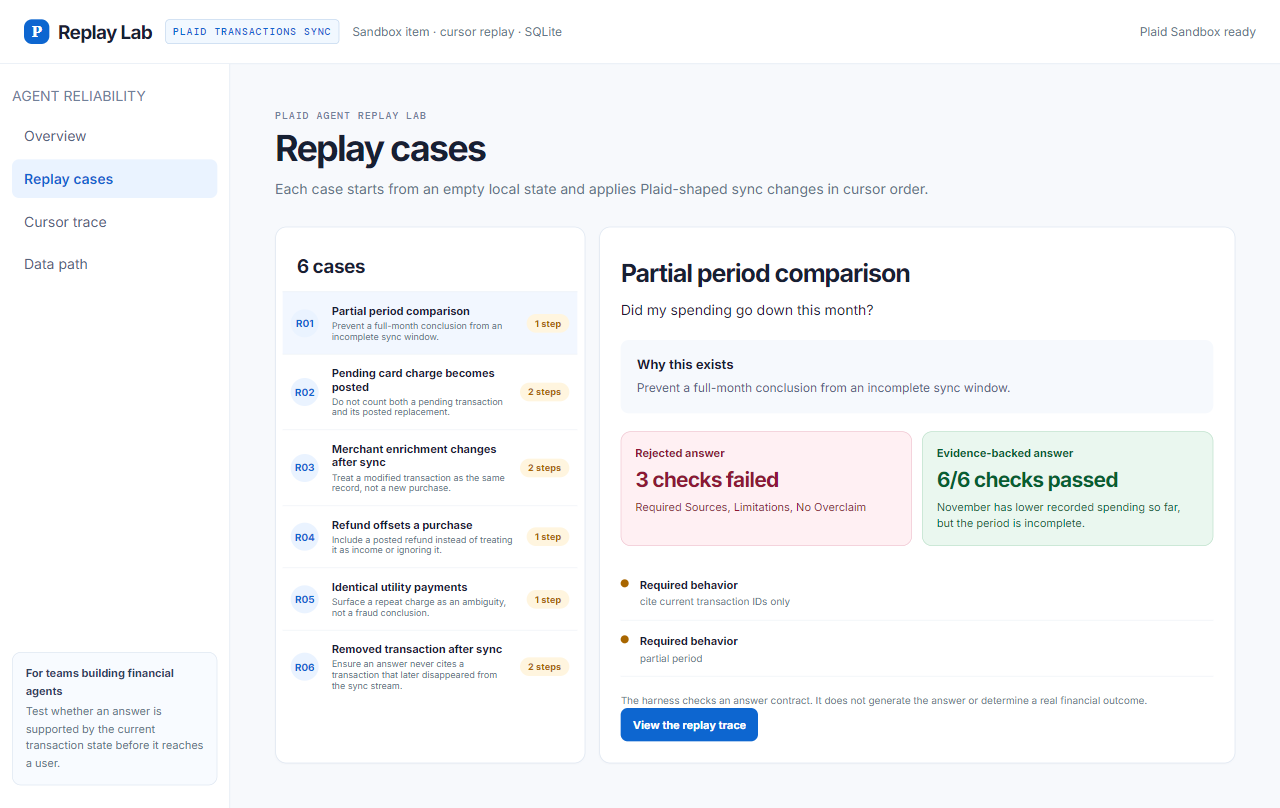
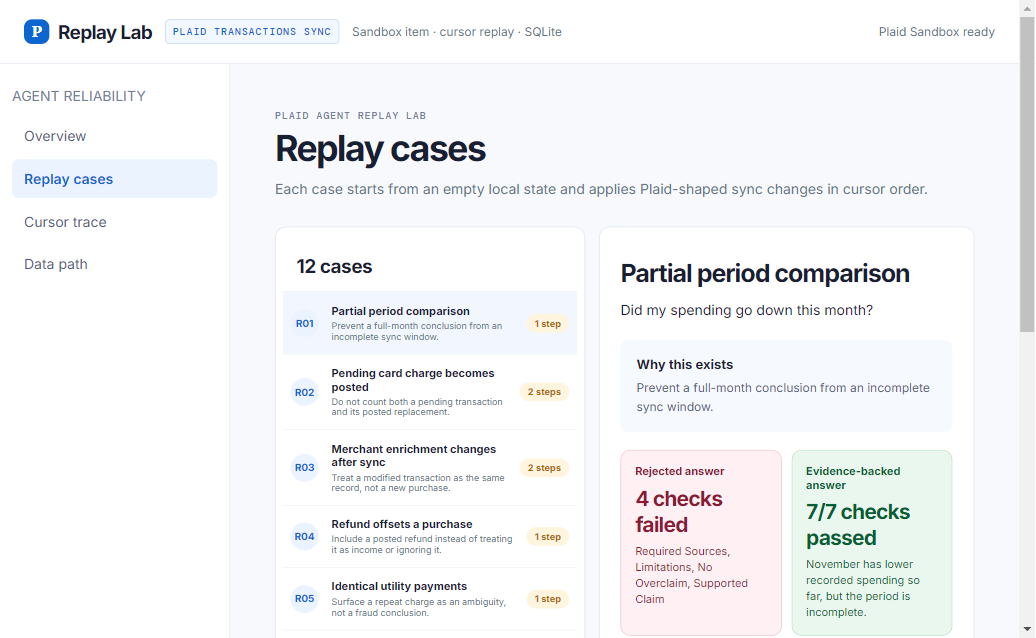
feat: add transaction sync agent benchmark

diff --git a/src/replay-suite.js b/src/replay-suite.js
@@ -27,7 +27,7 @@ const cases = [
     batches: [
       { cursor: "c1", added: [transaction("oct-dining", 82.4, "2026-10-05", "Restaurant", "credit"), transaction("nov-dining", 61.2, "2026-11-05", "Restaurant", "credit")], modified: [], removed: [] },
     ],
-    contract: { requiredSources: ["oct-dining", "nov-dining"], requiredLimitations: ["partial_period"], prohibitedConclusionPhrases: ["monthly spending decreased", "spending went down"], referenceConclusion: "November has lower recorded spending so far, but the period is incomplete." },
+    contract: { requiredSources: ["oct-dining", "nov-dining"], requiredLimitations: ["partial_period"], prohibitedConclusionPhrases: ["monthly spending decreased", "spending went down"], requiredConclusionTerms: ["lower recorded spending", "incomplete"], referenceConclusion: "November has lower recorded spending so far, but the period is incomplete." },
   },
   {
     id: "R02",
@@ -39,7 +39,7 @@ const cases = [
       { cursor: "c1", added: [transaction("coffee-pending", 6.5, "2026-11-10", "Blue Bottle Coffee", "checking", { pending: true, pending_transaction_id: null })], modified: [], removed: [] },
       { cursor: "c2", added: [transaction("coffee-posted", 6.5, "2026-11-10", "Blue Bottle Coffee", "checking", { pending_transaction_id: "coffee-pending" })], modified: [], removed: [{ transaction_id: "coffee-pending" }] },
     ],
-    contract: { requiredSources: ["coffee-posted"], forbiddenSources: ["coffee-pending"], requiredLimitations: ["pending_replaced"], referenceConclusion: "One posted $6.50 coffee purchase is available; the pending record was replaced." },
+    contract: { requiredSources: ["coffee-posted"], forbiddenSources: ["coffee-pending"], requiredLimitations: ["pending_replaced"], requiredConclusionTerms: ["one", "6.50", "replaced"], referenceConclusion: "One posted $6.50 coffee purchase is available; the pending record was replaced." },
   },
   {
     id: "R03",
@@ -51,7 +51,7 @@ const cases = [
       { cursor: "c1", added: [transaction("ride-1", 24.16, "2026-11-09", null, "credit", { original_description: "UBER *TRIP HELP.UBER.COM" })], modified: [], removed: [] },
       { cursor: "c2", added: [], modified: [transaction("ride-1", 24.16, "2026-11-09", "Uber", "credit", { original_description: "UBER *TRIP HELP.UBER.COM" })], removed: [] },
     ],
-    contract: { requiredSources: ["ride-1"], requiredLimitations: ["merchant_enriched"], referenceConclusion: "There is one $24.16 ride. The merchant label was enriched after sync." },
+    contract: { requiredSources: ["ride-1"], requiredLimitations: ["merchant_enriched"], requiredConclusionTerms: ["one", "24.16", "enriched"], referenceConclusion: "There is one $24.16 ride. The merchant label was enriched after sync." },
   },
   {
     id: "R04",
@@ -62,7 +62,7 @@ const cases = [
     batches: [
       { cursor: "c1", added: [transaction("order-1", 42.18, "2026-11-03", "Amazon", "credit"), transaction("refund-1", -42.18, "2026-11-07", "Amazon", "credit", { original_description: "AMZN Mktp US REFUND" })], modified: [], removed: [] },
     ],
-    contract: { requiredSources: ["order-1", "refund-1"], requiredLimitations: ["refund_included"], referenceConclusion: "The $42.18 purchase is fully offset by a posted $42.18 refund." },
+    contract: { requiredSources: ["order-1", "refund-1"], requiredLimitations: ["refund_included"], requiredConclusionTerms: ["42.18", "offset"], referenceConclusion: "The $42.18 purchase is fully offset by a posted $42.18 refund." },
   },
   {
     id: "R05",
@@ -73,7 +73,7 @@ const cases = [
     batches: [
       { cursor: "c1", added: [transaction("utility-1", 94.18, "2026-11-12", "PG&E", "checking"), transaction("utility-2", 94.18, "2026-11-12", "PG&E", "checking")], modified: [], removed: [] },
     ],
-    contract: { requiredSources: ["utility-1", "utility-2"], requiredLimitations: ["needs_confirmation"], referenceConclusion: "Two same-day utility charges need confirmation; the data alone does not establish fraud." },
+    contract: { requiredSources: ["utility-1", "utility-2"], requiredLimitations: ["needs_confirmation"], requiredConclusionTerms: ["two", "confirmation"], referenceConclusion: "Two same-day utility charges need confirmation; the data alone does not establish fraud." },
   },
   {
     id: "R06",
@@ -85,7 +85,74 @@ const cases = [
       { cursor: "c1", added: [transaction("removed-charge", 31.5, "2026-11-08", "Corner Market", "checking")], modified: [], removed: [] },
       { cursor: "c2", added: [], modified: [], removed: [{ transaction_id: "removed-charge" }] },
     ],
-    contract: { requiredSources: [], forbiddenSources: ["removed-charge"], requiredLimitations: ["removed_transaction"], referenceConclusion: "No current transaction can support a November 8 purchase claim after the record was removed." },
+    contract: { requiredSources: [], forbiddenSources: ["removed-charge"], requiredLimitations: ["removed_transaction"], requiredConclusionTerms: ["no current", "removed"], referenceConclusion: "No current transaction can support a November 8 purchase claim after the record was removed." },
+  },
+  {
+    id: "R07",
+    title: "Posted amount changes after settlement",
+    question: "How much was the restaurant bill?",
+    purpose: "Use a modified transaction's settled amount instead of the earlier authorization amount.",
+    coverage: { accounts: ["credit"], start: "2026-11-09", end: "2026-11-10", completePeriods: [], incompletePeriods: ["2026-11"] },
+    batches: [
+      { cursor: "c1", added: [transaction("restaurant-1", 36, "2026-11-09", "Swan Oyster Depot", "credit")], modified: [], removed: [] },
+      { cursor: "c2", added: [], modified: [transaction("restaurant-1", 42.6, "2026-11-09", "Swan Oyster Depot", "credit", { original_description: "SWAN OYSTER DEPOT + TIP" })], removed: [] },
+    ],
+    contract: { requiredSources: ["restaurant-1"], requiredLimitations: ["amount_modified"], requiredConclusionTerms: ["42.60", "updated"], referenceConclusion: "The current settled restaurant charge is $42.60; the transaction amount was updated after sync." },
+  },
+  {
+    id: "R08",
+    title: "Similar charges across two accounts",
+    question: "Are these two bookstore charges duplicates?",
+    purpose: "Avoid collapsing same-merchant charges that occurred on different accounts into one record.",
+    coverage: { accounts: ["checking", "credit"], start: "2026-11-11", end: "2026-11-11", completePeriods: [], incompletePeriods: ["2026-11"] },
+    batches: [
+      { cursor: "c1", added: [transaction("books-checking", 18.5, "2026-11-11", "City Lights", "checking"), transaction("books-credit", 18.5, "2026-11-11", "City Lights", "credit")], modified: [], removed: [] },
+    ],
+    contract: { requiredSources: ["books-checking", "books-credit"], requiredLimitations: ["needs_confirmation"], requiredConclusionTerms: ["two", "separate accounts"], referenceConclusion: "There are two $18.50 bookstore charges on separate accounts. The data alone cannot establish that either is a duplicate." },
+  },
+  {
+    id: "R09",
+    title: "Transfer is not ordinary spending",
+    question: "What did I spend from checking?",
+    purpose: "Exclude an account transfer from a spending total while preserving it as a cited source.",
+    coverage: { accounts: ["checking"], start: "2026-11-01", end: "2026-11-12", completePeriods: [], incompletePeriods: ["2026-11"] },
+    batches: [
+      { cursor: "c1", added: [transaction("groceries-1", 57.2, "2026-11-04", "Rainbow Grocery", "checking"), transaction("transfer-1", 300, "2026-11-06", "Transfer to Savings", "checking", { personal_finance_category: { primary: "TRANSFER_OUT" } })], modified: [], removed: [] },
+    ],
+    contract: { requiredSources: ["groceries-1", "transfer-1"], requiredLimitations: ["transfer_excluded"], requiredConclusionTerms: ["57.20", "transfer"], referenceConclusion: "Recorded spending is $57.20 at Rainbow Grocery; the $300 transfer to savings is excluded from ordinary spending." },
+  },
+  {
+    id: "R10",
+    title: "Account coverage is incomplete",
+    question: "What did I spend across all my accounts?",
+    purpose: "Require an account-scope limitation when the replay only covers checking.",
+    coverage: { accounts: ["checking"], start: "2026-11-01", end: "2026-11-12", completePeriods: [], incompletePeriods: ["2026-11"] },
+    batches: [
+      { cursor: "c1", added: [transaction("checking-coffee", 5.4, "2026-11-05", "Ritual Coffee", "checking"), transaction("checking-groceries", 31.6, "2026-11-07", "Bi-Rite Market", "checking")], modified: [], removed: [] },
+    ],
+    contract: { requiredSources: ["checking-coffee", "checking-groceries"], requiredLimitations: ["account_scope"], requiredConclusionTerms: ["37.00", "checking"], referenceConclusion: "The replay shows $37.00 of checking-account spending only; it cannot establish spending across all accounts." },
+  },
+  {
+    id: "R11",
+    title: "Recurring-looking charges on different dates",
+    question: "Is my streaming service charging me twice?",
+    purpose: "Distinguish a possible billing issue from a conclusion of duplicate or fraudulent activity.",
+    coverage: { accounts: ["credit"], start: "2026-10-28", end: "2026-11-12", completePeriods: [], incompletePeriods: ["2026-11"] },
+    batches: [
+      { cursor: "c1", added: [transaction("stream-oct", 15.49, "2026-10-28", "StreamFlix", "credit"), transaction("stream-nov", 15.49, "2026-11-11", "StreamFlix", "credit")], modified: [], removed: [] },
+    ],
+    contract: { requiredSources: ["stream-oct", "stream-nov"], requiredLimitations: ["needs_confirmation"], requiredConclusionTerms: ["two", "different dates"], referenceConclusion: "There are two $15.49 streaming charges on different dates. Their timing alone does not establish a duplicate charge." },
+  },
+  {
+    id: "R12",
+    title: "Ordinary posted purchase control",
+    question: "What was my pharmacy purchase?",
+    purpose: "Confirm that the evaluator permits a simple, well-supported answer when no lifecycle ambiguity exists.",
+    coverage: { accounts: ["checking"], start: "2026-11-10", end: "2026-11-10", completePeriods: [], incompletePeriods: ["2026-11"] },
+    batches: [
+      { cursor: "c1", added: [transaction("pharmacy-1", 12.84, "2026-11-10", "Walgreens", "checking")], modified: [], removed: [] },
+    ],
+    contract: { requiredSources: ["pharmacy-1"], requiredLimitations: [], requiredConclusionTerms: ["12.84", "walgreens"], referenceConclusion: "The current state shows one posted $12.84 Walgreens purchase." },
   },
 ];
 
@@ -132,6 +199,32 @@ export function replayCase(id) {
   };
 }
 
+export function buildAgentTask(caseId, condition = "raw_sync") {
+  const fixture = byId.get(caseId);
+  if (!fixture) throw new Error("Replay case not found.");
+  if (condition === "raw_sync") {
+    return {
+      caseId,
+      condition,
+      question: fixture.question,
+      coverage: fixture.coverage,
+      syncBatches: fixture.batches,
+    };
+  }
+  if (condition === "reconciled_state") {
+    const replay = replayCase(caseId);
+    return {
+      caseId,
+      condition,
+      question: replay.question,
+      coverage: replay.coverage,
+      currentTransactions: replay.transactions,
+      cursorTrace: replay.steps,
+    };
+  }
+  throw new Error(`Unknown benchmark condition: ${condition}`);
+}
+
 export function validateFinancialAnswer({ caseId, conclusion, sourceTransactionIds, limitations }) {
   const replay = replayCase(caseId);
   const cited = [...new Set(sourceTransactionIds ?? [])];
@@ -140,6 +233,7 @@ export function validateFinancialAnswer({ caseId, conclusion, sourceTransactionI
   const forbidden = replay.contract.forbiddenSources ?? [];
   const statedLimitations = new Set(limitations ?? []);
   const prohibited = replay.contract.prohibitedConclusionPhrases ?? [];
+  const requiredTerms = replay.contract.requiredConclusionTerms ?? [];
   const normalizedConclusion = String(conclusion ?? "").toLowerCase();
   const checks = [
     { id: "required_sources", pass: required.every((id) => cited.includes(id)), detail: required.length ? `Required: ${required.join(", ")}` : "No active transaction is required." },
@@ -147,6 +241,7 @@ export function validateFinancialAnswer({ caseId, conclusion, sourceTransactionI
     { id: "forbidden_sources", pass: forbidden.every((id) => !cited.includes(id)), detail: forbidden.length ? `Do not cite: ${forbidden.join(", ")}` : "No stale source restriction." },
     { id: "limitations", pass: replay.contract.requiredLimitations.every((item) => statedLimitations.has(item)), detail: `Required limitations: ${replay.contract.requiredLimitations.join(", ") || "none"}` },
     { id: "no_overclaim", pass: !prohibited.some((phrase) => normalizedConclusion.includes(phrase)), detail: prohibited.length ? `Do not claim: ${prohibited.join("; ")}` : "No fixture-specific overclaim restriction." },
+    { id: "supported_claim", pass: requiredTerms.every((term) => normalizedConclusion.includes(term.toLowerCase())), detail: requiredTerms.length ? `Conclusion must include: ${requiredTerms.join("; ")}` : "No fixture-specific conclusion terms." },
     { id: "conclusion_present", pass: typeof conclusion === "string" && conclusion.trim().length > 0, detail: "A short conclusion is required." },
   ];
   return { caseId, passed: checks.every((check) => check.pass), checks, referenceConclusion: replay.contract.referenceConclusion };

diff --git a/README.md b/README.md
@@ -4,7 +4,7 @@ I started this after connecting Plaid to ChatGPT and Muse. The analysis was alre
 
 That shifted the question for me. The problem is not how to make another financial chatbot. It is how to test an agent after the transaction record changes.
 
-Plaid Agent Replay Lab replays Plaid-shaped Transactions Sync responses and checks the contract around an agent answer. A valid answer needs to cite transactions that still exist in the current state and disclose limitations such as an incomplete period, a pending-to-posted replacement, a refund, or a removed record.
+Plaid Agent Replay Lab is a compact evaluation harness for that problem. It replays Plaid-shaped Transactions Sync responses, gives an agent either the raw delta stream or a deterministically reconciled current state, then independently scores the resulting answer. A valid answer needs to cite transactions that still exist and disclose limitations such as an incomplete period, a pending-to-posted replacement, a refund, or a removed record.
 
 The project uses synthetic fixtures for expected behavior. The Sandbox integration is separate and shows the real account and cursor-based sync path without claiming that Sandbox transactions have fraud or correctness labels.
 
@@ -12,7 +12,7 @@ The project uses synthetic fixtures for expected behavior. The Sandbox integrati
 
 ## What it tests
 
-The suite covers six cases that are easy to mishandle when an agent works from transaction history:
+The suite covers twelve cases that are easy to mishandle when an agent works from transaction history:
 
 - a partial-period comparison
 - a pending card charge that becomes posted
@@ -20,6 +20,11 @@ The suite covers six cases that are easy to mishandle when an agent works from t
 - a refund that offsets a purchase
 - two identical utility payments that need confirmation
 - a transaction removed by a later sync response
+- a settlement amount changed through `modified`
+- similar charges across two accounts
+- transfer exclusion from a spending total
+- incomplete account coverage
+- recurring-looking charges and a normal posted-purchase control
 
 Each case starts from an empty local state. The harness applies `added`, `modified`, and `removed` changes in cursor order, then exposes only the final transaction state to the answer validator.
 
@@ -35,13 +40,31 @@ The validator does not decide whether an answer sounds good. It checks facts tha
 
 This keeps the evaluation separate from a model score. An agent can use the MCP tools to inspect a case and submit its own structured answer for validation.
 
+## OpenAI benchmark
+
+The optional benchmark runs the same cases twice: first from raw `added` / `modified` / `removed` batches, then from a deterministic current-state reconciliation. It does not use the reference answer or validation contract as model context. Both outputs are scored afterward by the same independent validator.
+
+Run one case before paying for the full suite:
+
+```powershell
+npm run benchmark:openai -- --model <your-model-id> --case R02
+```
+
+Run all twelve cases:
+
+```powershell
+npm run benchmark:openai -- --model <your-model-id> --all
+```
+
+Set a newly issued `OPENAI_API_KEY` in your terminal or `.env`. Results are written locally to `output/benchmarks/` and are intentionally not committed: a result table belongs in the README only after a real run. See [the benchmark protocol](docs/benchmark-protocol.md).
+
 ## MCP interface
 
 The local Streamable HTTP endpoint is `http://127.0.0.1:8787/mcp`.
 
 | Tool | Purpose |
 | --- | --- |
-| `list_replay_cases` | Lists the six synthetic replay cases. |
+| `list_replay_cases` | Lists the twelve synthetic replay cases. |
 | `get_replay_case` | Returns one case's cursor steps, current transactions, coverage, and answer contract. |
 | `validate_financial_answer` | Checks a proposed structured answer against the current replay state. |
 

diff --git a/docs/benchmark-protocol.md b/docs/benchmark-protocol.md
@@ -1,0 +1,25 @@
+# Benchmark protocol
+
+## Question
+
+Does a model produce a contract-valid financial answer more often when it receives raw Transactions Sync-style deltas, or a deterministic reconciliation of those same deltas?
+
+## Conditions
+
+`raw_sync` gives the model the question, account/date coverage, and every `added`, `modified`, and `removed` batch. The model must reconstruct the final state.
+
+`reconciled_state` gives the same question and coverage plus the current transaction state and a cursor trace produced by the reducer. It does not include the fixture contract, expected conclusion, or required limitations.
+
+## Scoring
+
+The model returns structured JSON with a conclusion, cited transaction IDs, and limitations. After generation, the validator checks current sources, required sources, forbidden stale sources, required limitations, fixture-specific overclaims, and bounded claim terms. Structured output makes response shape reliable; it does not replace domain validation.
+
+The report records every raw answer and check result. It reports pass rate by condition, not a hand-picked example. A difference is descriptive for this small synthetic suite, not a claim of general model performance.
+
+## Rules for reporting
+
+- Name the exact model and run timestamp.
+- Publish the case count and both condition pass rates.
+- Include failed cases or link to the saved JSON report.
+- Do not describe a result as fraud detection, live-bank validation, or an OpenAI benchmark.
+- Rerun after changing fixtures, prompts, reducer behavior, or the validator.
